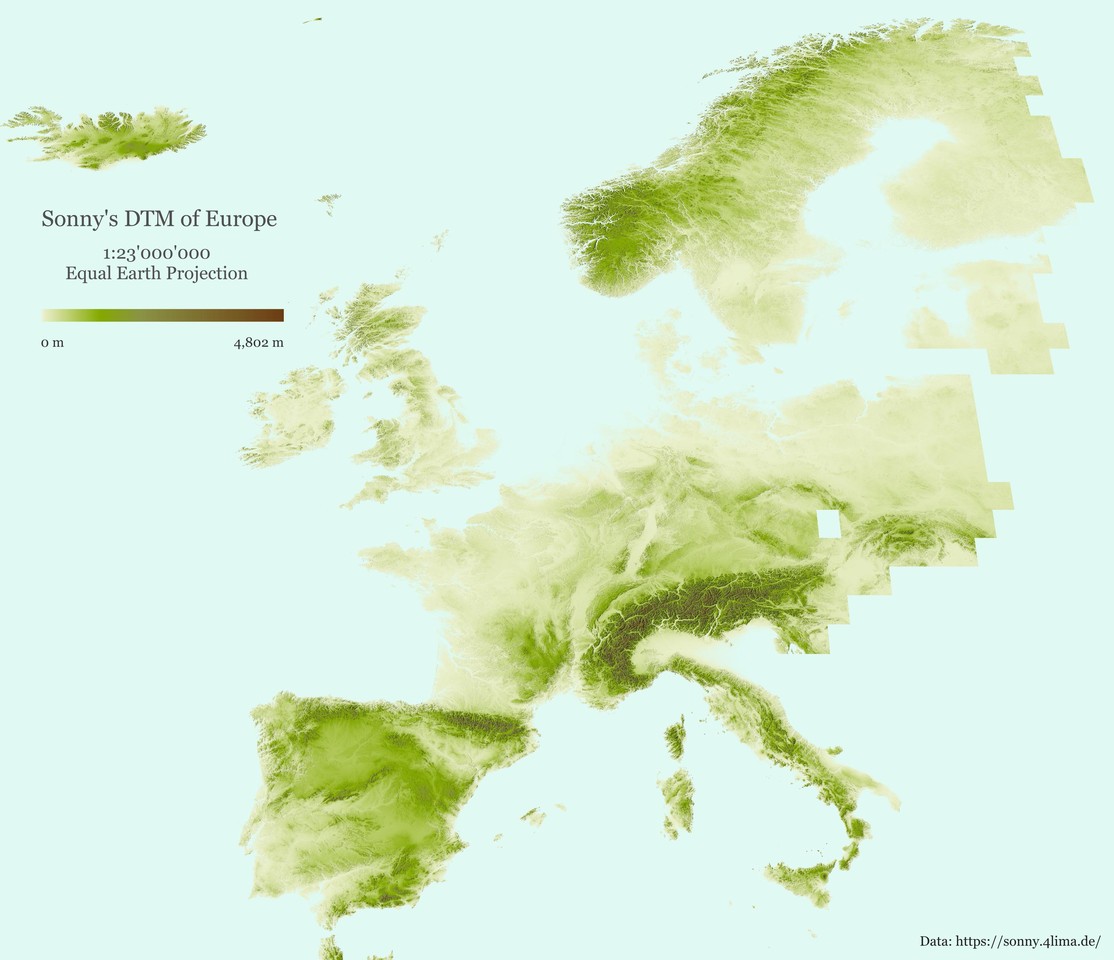
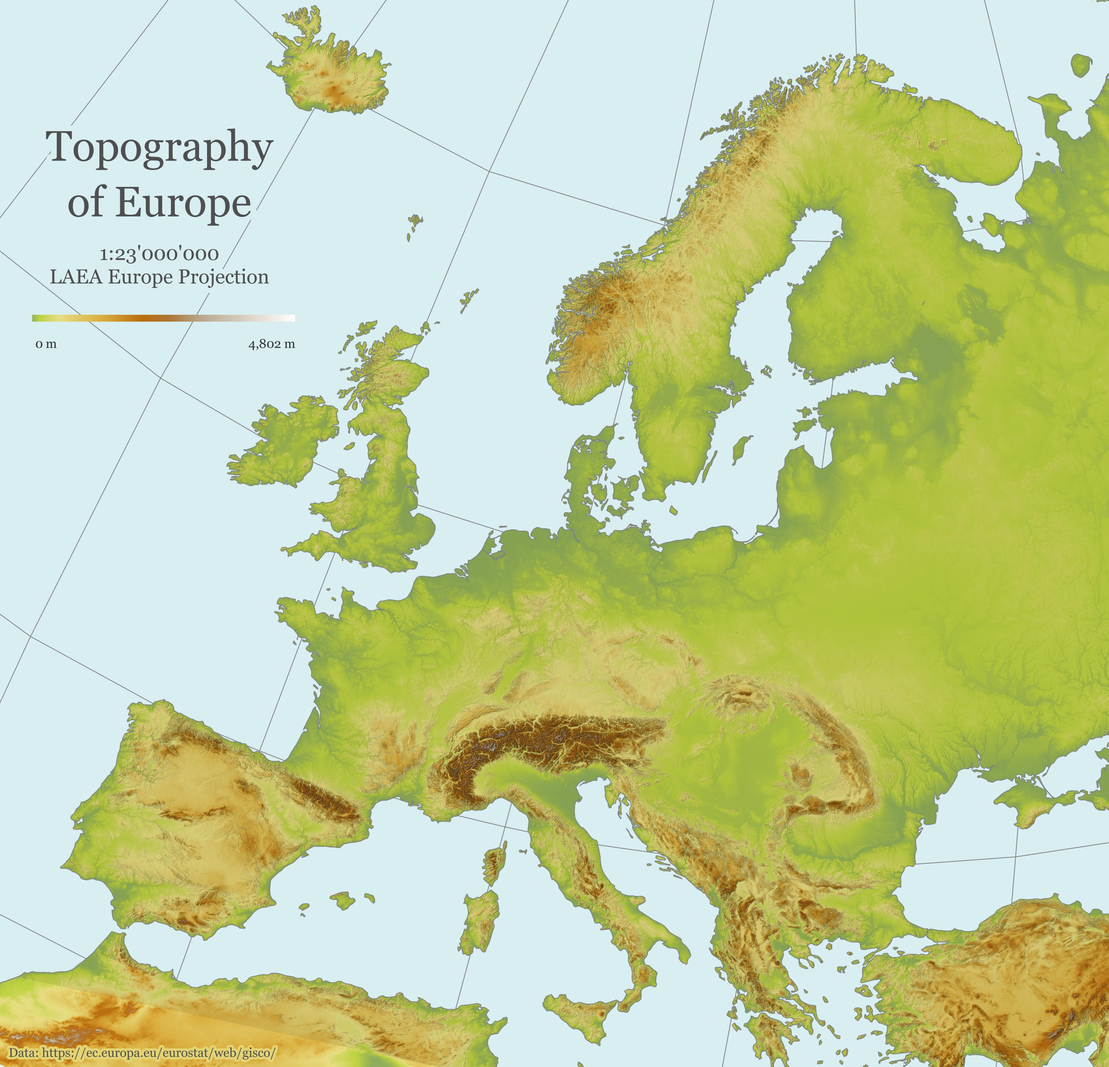
Improve map

diff --git a/Maps/TopographicEurope/Methodology.md b/Maps/TopographicEurope/Methodology.md
@@ -1,18 +1,37 @@
 # Process
-## Getting the Data
-- Download DTM from https://sonny.4lima.de.
-
-I chose Europe DTM 3'', it is precise enough for a small scale map. The data comes as tiles in the .hgt format, in their respective CRS.
-
-## Processing
-1. Reproject the .hgt files into EPSG:3035 Geotiffs using the script `reproject_tiles`. We need to reproject them into a metric CRS in order to use the hillshade tool later, and it is faster to reproject the tiles than a big merged file.
-2. Import the reprojected tiles into QGIS and merge them into a large Geotiff.
-3. Replace nodata values with 0, to avoid having ugly straight line boundaries around the edges of the tiles. This works since we have nodata on the sea.
-4. Compute a hillshade from the merged DTM. Here we chose multidirectional lighting, and keep the rest as default.
-5. Style the DEM to highlight the mid to low elevations, so that the map does not appear flat.
-	1. Set the minimum value to 0
-	2. Pick a gradient that is darker at high elevations, more saturated at mid elevations, and less saturated (but still colored) at low elevations.
-    3. The color map is found in the folder.
-8. Style the hillshade to highlight the relief in high-slope areas (mountain ranges).
+1. Download DTM from [Copernicus](https://ec.europa.eu/eurostat/web/gisco/geodata/reference-data/elevation/copernicus-dem/elevation). They come as Geotiff tiles in the WGS 84 CRS.
+2. Create a virtual raster to merge them, and reproject it to ESPG:3035, which is better suited for Europe.
+3. Convert the virtual raster into a normal raster and compute a hillshade from it
+	1. Parameters: multidirectional lighting, 315 degrees hazimut, and 65 degrees elevation, compute edges, Z factor = 2.
+4. Style the DEM with a color ramp that starts at green near sea level, then yellow, brown and white for the mountains.
+5. Style the hillshade to highlight the relief in high-slope areas (mountain ranges).
 	1. Set rendering to multiply.
 	2. Increase brightness to remove low frequency slopes and reduce gamma to make high frequency details more visible.
+6. Use a vector shape of the world borders and dissolve it, to get just the coast lines. Give it a thin line, just to make the coastlines a bit sharper.
+
+# Feedback
+I asked for feedback about the first version of my map on the [GIS subreddit](https://www.reddit.com/r/gis/comments/12yibzz/first_time_making_a_topographic_map_at_a_large/) and received some fantastic advice. Here is what I ended up applying to improve my work:
+
+- u/AD613, u/MrVernon09, u/Daexmun
+	- Maps that cover a large extent are of course called small scale, not large scale.
+- u/manualLurking
+	- Clipping the DEM to the national boundaries looks better than using the raw DEM tiles.
+	- Use a color ramp such that the color at low elevations contrasts with the background color.
+- u/DjangoBojangles
+	- Try different hillshades. Use angles about 30 degrees south of 90 or 270 for sunrise or sunset directions. Sun angles between 35-50 are most common.
+	- Search gis topographic gradients to get some more color scheme ideas.
+- u/gghumus
+	- Use different colors to have the land stand out from the sea a bit better.
+- u/geo-special
+	- Use blender to make it pop. I have not done that, but I would like to in the future. I read the tutorials you linked, and one of them mentioned the Copernicus datasets, which I decided to use for this map. 
+- u/Brawnyllama
+	- Use boundary lines for definition of low contrast, and perhaps a graticule layer.
+- u/Brawnyllama
+	- Be mindful about font sizes, and scalebar extents.
+- u/Tomniverse, u/ManAboutCouch
+	- It's best to use ESPG:3035 for Europe.
+- u/kaik1914
+	- Move the map title higher up.
+- u/DragonBadgerBearMole
+	- Try to include Eastern Europe
+	- Look at the McNally and National Geographic color ramp, where green implies vegetation and thus lowlands, and yellows/browns are used at the higher elevations.
